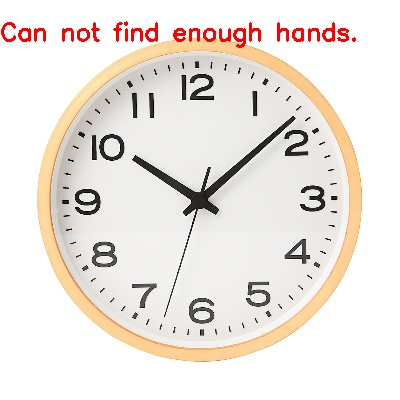
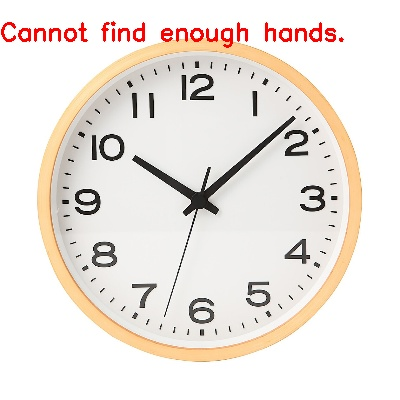
Update main

Changed region(s): [[0.12, 0.03, 0.9, 0.12]]

diff --git a/Method 2/main.py b/Method 2/main.py
@@ -187,138 +187,113 @@ def hands_detection(groups, center_x, center_y):
     return hands
 
 
-"""--------------------------------------------------------------------------------------------------------------------"""
-
-
-# The get_hands function has the function of accurately determining the hour, minute, and second hands
-# from the 3 clock hands found in the hands_detection function.
 def get_hands(hands):
-    # Arrange the clock hands by thickness
+    """
+    The get_hands function has the function of accurately determining the hour, minute, and second hands from the 3 clock hands found in the hands_detection function.
+    """
     sorted_hands_by_thickness = sorted(hands, key=lambda hands: hands[1])
 
-    # The second hand is the hand with the smallest thickness
     second_hand = sorted_hands_by_thickness[0]
 
-    # Remove the second hand from the list containing 3 clock hands
     hands.remove(second_hand)
 
-    # Arrange the remaining 2 clock hands by length
     sorted_hands_by_length = sorted(hands, key=lambda hands: hands[2])
 
-    # The hour hand is the hand with the shortest length and the remaining hand is the minute hand
     hour_hand = sorted_hands_by_length[0]
     minute_hand = sorted_hands_by_length[1]
 
     return hour_hand, minute_hand, second_hand
 
 
-# The draw_hands_frame function
 def draw_hands_frame(img, hour_hand, minute_hand, second_hand, center_x, center_y):
-    # Draw rectangle and add label for hour hand
-    x1, y1, x2, y2 = hour_hand[0]
+    """
+    The draw_hands_frame function
+    """
+    x1, y1, _, _ = hour_hand[0]
     cv2.line(img, (center_x, center_y), (x1, y1), (255, 0, 0), 15)
 
-    # Draw line and add label for minute hand
-    x1, y1, x2, y2 = minute_hand[0]
+    x1, y1, _, _ = minute_hand[0]
     cv2.line(img, (center_x, center_y), (x1, y1), (0, 255, 0), 10)
 
-    # Draw line and add label for second hand
-    x1, y1, x2, y2 = second_hand[0]
+    x1, y1, _, _ = second_hand[0]
     cv2.line(img, (center_x, center_y), (x1, y1), (0, 0, 255), 5)
 
 
-# Function to calculate direction vector of a clock hand
 def get_vector(hand):
+    """
+    Function to calculate direction vector of a clock hand
+    """
     x1, y1, x2, y2 = hand[0]
     vector = [x2 - x1, y2 - y1]
     return vector
 
 
-# Function to calculate the dot product of two vectors
 def dot_product(u, v):
+    """
+    Function to calculate the dot product of two vectors
+    """
     return u[0] * v[0] + u[1] * v[1]
 
 
-# The function calculates the directional product of two vectors
 def cross_product(u, v):
+    """
+    The function calculates the directional product of two vectors
+    """
     return u[0] * v[1] - u[1] * v[0]
 
 
-# Function to calculate the angle of a clock hand relative to the y direction
 def get_angle(hand, center_x, center_y):
-    # u is the direction vector of the clock hands
-    u = get_vector(hand)
+    """
+    Function to calculate the angle of a clock hand relative to the y direction
+    """
+    u = get_vector(hand=hand)
 
-    # Create a horizontal direction vector from the center of the clock
     v = [center_x - center_x, center_y - (center_y - 100)]
 
-    # Call the function to calculate the dot product of two vectors
-    dot_uv = dot_product(u, v)
+    dot_uv = dot_product(u=u, v=v)
 
-    # Calculate the length of vector u and v
     length_u = math.sqrt(u[0] ** 2 + u[1] ** 2)
     length_v = math.sqrt(v[0] ** 2 + v[1] ** 2)
 
-    # Calculate the cosine of the angle between two vectors using the formula u.v / (|u| * |v|)
     cos_theta = dot_uv / (length_u * length_v)
 
-    # Limit the value of cos to the range [-1, 1] to avoid errors when calculating arccos
     cos_theta = max(min(cos_theta, 1.0), -1.0)
 
-    # Calculate the angle using the formula arccos(cos_theta)
     theta = math.acos(cos_theta)
 
-    # Convert angle from radians to degrees
     theta_degrees = math.degrees(theta)
 
-    # If the directional product is greater than 0, that means vector u is to the left of vector v
-    # Conversely, if the directional product is less than or equal to 0, that means vector u is to the right or in the same direction as vector v
     cross_uv = cross_product(u, v)
     if cross_uv > 0:
-        # Returns the complementary angle of theta
         return 360 - theta_degrees
     else:
         return theta_degrees
 
 
-# The get_time function has the function of calculating time from the angles of the clock hands
 def get_time(hour_angle, minute_angle, second_angle):
-    # Calculate the time from the angle of the hour hand by dividing by 30 (each hour corresponds to 30 degrees)
+    """
+    The get_time function has the function of calculating time from the angles of the clock hands
+    """
     hour = hour_angle / 30
 
-    # Calculate minutes and seconds from the angle of the minute and second hands by dividing by 6 (each minute or second corresponds to 6 degrees)
     minute = minute_angle / 6
     second = second_angle / 6
 
-    # Adjust to avoid errors
-
-    # If the angle of the hour hand is close to an integer multiplied with 30 (i.e. close to a specific hour)
-    # and the angle of the minute hand is close to 0 or 360 (i.e. close to 12 o'clock)
     if (round(hour) * 30 - hour_angle <= 6) and (
         (355 < minute_angle and minute_angle < 360) or (minute_angle < 90)
     ):
-        # Round hour up or down
         hour = round(hour)
         if hour == 12:
             hour = 0
 
-    # If the angle of the hour hand is close to a specific hour
-    # and the angle of the minute hand is close to 360 (ie close to 12 o'clock)
-    # Then set minute to 0
     if (hour_angle - hour * 30 <= 6) and (355 < minute_angle and minute_angle < 360):
         minute = 0
 
-    # If the angle of the minute hand is close to an integer multiplied with 6 (i.e. close to a specific minute)
-    # and the angle of the second hand is approximately between 0 and 6 (i.e. 1 round of 60 seconds has passed).
     if (round(minute) * 6 - minute_angle <= 6) and (second_angle < 6):
-        # Round minutes up or down
         minute = round(minute)
         if minute == 60:
             minute = 0
 
-    # If the angle of the minute hand is close to a specific minute
-    # and the angle of the second hand is close to 360 (ie close to 12 o'clock)
-    # Then set second to 0
     if (minute_angle - minute * 30 <= 6) and (
         354 < second_angle and second_angle < 360
     ):
@@ -328,21 +303,20 @@ def get_time(hour_angle, minute_angle, second_angle):
     minute = int(minute)
     second = int(second)
 
-    # Create a time series in hh:mm:ss format
     time = f"{hour:02d}:{minute:02d}:{second:02d}"
     return time
 
 
-# The draw_time function has the function of drawing time on a clock image
 def draw_time(img, time):
-    # Choose the font, size and thickness of the text
+    """
+    The draw_time function has the function of drawing time on a clock image
+    """
     font = cv2.FONT_HERSHEY_SIMPLEX
     font_scale = 2
     font_thickness = 3
 
     hour, minute, second = map(str, time.split(":"))
 
-    # Write text on the image with selected parameters
     cv2.putText(img, hour, (10, 950), font, font_scale, (255, 0, 0), font_thickness)
     cv2.putText(img, ":", (90, 950), font, font_scale, (0, 0, 0), font_thickness)
 
@@ -353,68 +327,52 @@ def draw_time(img, time):
 
 
 def solve(img):
-    # Step 1: image preprocessing includes resizing the image and increasing contrast
-    # and reducing noise to increase the likelihood of detecting the clock
-    img = resize_input(img)
-    # Process images before searching for clock
-    img_hsv = cv2.cvtColor(
-        img, cv2.COLOR_BGR2HSV
-    )  # Convert image from BGR color space to HSV
-    img_hsv = cv2.bitwise_not(img_hsv)  # Invert color values in HSV space
-    # Create a CLAHE object to balance the brightness of the image
+    img = resize_input(img=img)
+    img_hsv = cv2.cvtColor(img, cv2.COLOR_BGR2HSV)
+    img_hsv = cv2.bitwise_not(img_hsv)
     clahe = cv2.createCLAHE(clipLimit=2.0, tileGridSize=(8, 8))
-    # Apply CLAHE to the V (brightness) channel of the HSV image
     img_hsv[:, :, 2] = clahe.apply(img_hsv[:, :, 2])
-    # Generate a binary threshold for channel V of the HSV image using the Otsu method
     _, thresh = cv2.threshold(
         img_hsv[:, :, 2], 0, 255, cv2.THRESH_BINARY + cv2.THRESH_OTSU
     )
-    # Blur the image with a Gaussian filter to reduce noise
     blurred = cv2.GaussianBlur(thresh, (5, 5), 0)
 
-    # Step 2: detect the clock
     center_x, center_y, radius = clock_detection(img, blurred)
 
-    # Step 3: detect line segments in the clock
     lines = line_detection(img, blurred)
 
-    # Step 4: finding lines that are close together and nearly parallel to group into a group
     groups = group_lines_detection(lines, center_x, center_y, radius)
 
-    # Step 5: detect the clock hands
     hands = hands_detection(groups, center_x, center_y)
 
     if len(hands) < 3:
         return
 
-    # Step 6: Determine which hand is the hour hand, which hand is the minute hand, and which hand is the second hand
     hour_hand, minute_hand, second_hand = get_hands(hands)
 
-    # Step 7: draw a frame around and label the clock hands back on the image
     draw_hands_frame(img, hour_hand, minute_hand, second_hand, center_x, center_y)
 
-    # Step 8: determine the rotation angle of the clock hands
-    hour_angle = get_angle(hour_hand, center_x, center_y)
-    minute_angle = get_angle(minute_hand, center_x, center_y)
-    second_angle = get_angle(second_hand, center_x, center_y)
+    hour_angle = get_angle(hand=hour_hand, center_x=center_x, center_y=center_y)
+    minute_angle = get_angle(hand=minute_hand, center_x=center_x, center_y=center_y)
+    second_angle = get_angle(hand=second_hand, center_x=center_x, center_y=center_y)
 
-    # Step 9: calculate the clock time based on the rotation angle in step 8
-    time = get_time(hour_angle, minute_angle, second_angle)
+    time = get_time(
+        hour_angle=hour_angle, minute_angle=minute_angle, second_angle=second_angle
+    )
 
-    # Step 10: draw time on the image
-    draw_time(img, time)
+    draw_time(img=img, time=time)
 
     return img
 
 
 def main():
-    # Iterate over images in the input directory
     for i in range(1, 31):
         filename = f"input/{i}.jpg"
 
-        img = cv2.imread(filename)
+        img = cv2.imread(filename=filename)
 
         if img is None:
+            print(f"Warning: Cannot open/read file: {filename}")
             continue
 
         img_resolve = solve(img)
@@ -422,22 +380,24 @@ def main():
         if img_resolve is not None:
             img = img_resolve
 
-        img = cv2.resize(img, (400, 400))
+        img = cv2.resize(src=img, dsize=(400, 400))
 
         if img_resolve is None:
             img = cv2.putText(
-                img,
-                "Can not find enough hands.",
-                (0, 40),
-                cv2.FONT_HERSHEY_SIMPLEX,
-                0.8,
-                (0, 0, 255),
-                2,
+                img=img,
+                text="Cannot find enough hands.",
+                org=(0, 40),
+                fontFace=cv2.FONT_HERSHEY_SIMPLEX,
+                fontScale=0.8,
+                color=(0, 0, 255),
+                thickness=2,
             )
 
         result_path = f"output/output_{i}.jpg"
 
-        cv2.imwrite(result_path, img)
+        print(f"Saving result to {result_path}")
+
+        cv2.imwrite(filename=result_path, img=img)
         cv2.destroyAllWindows()
 
 
